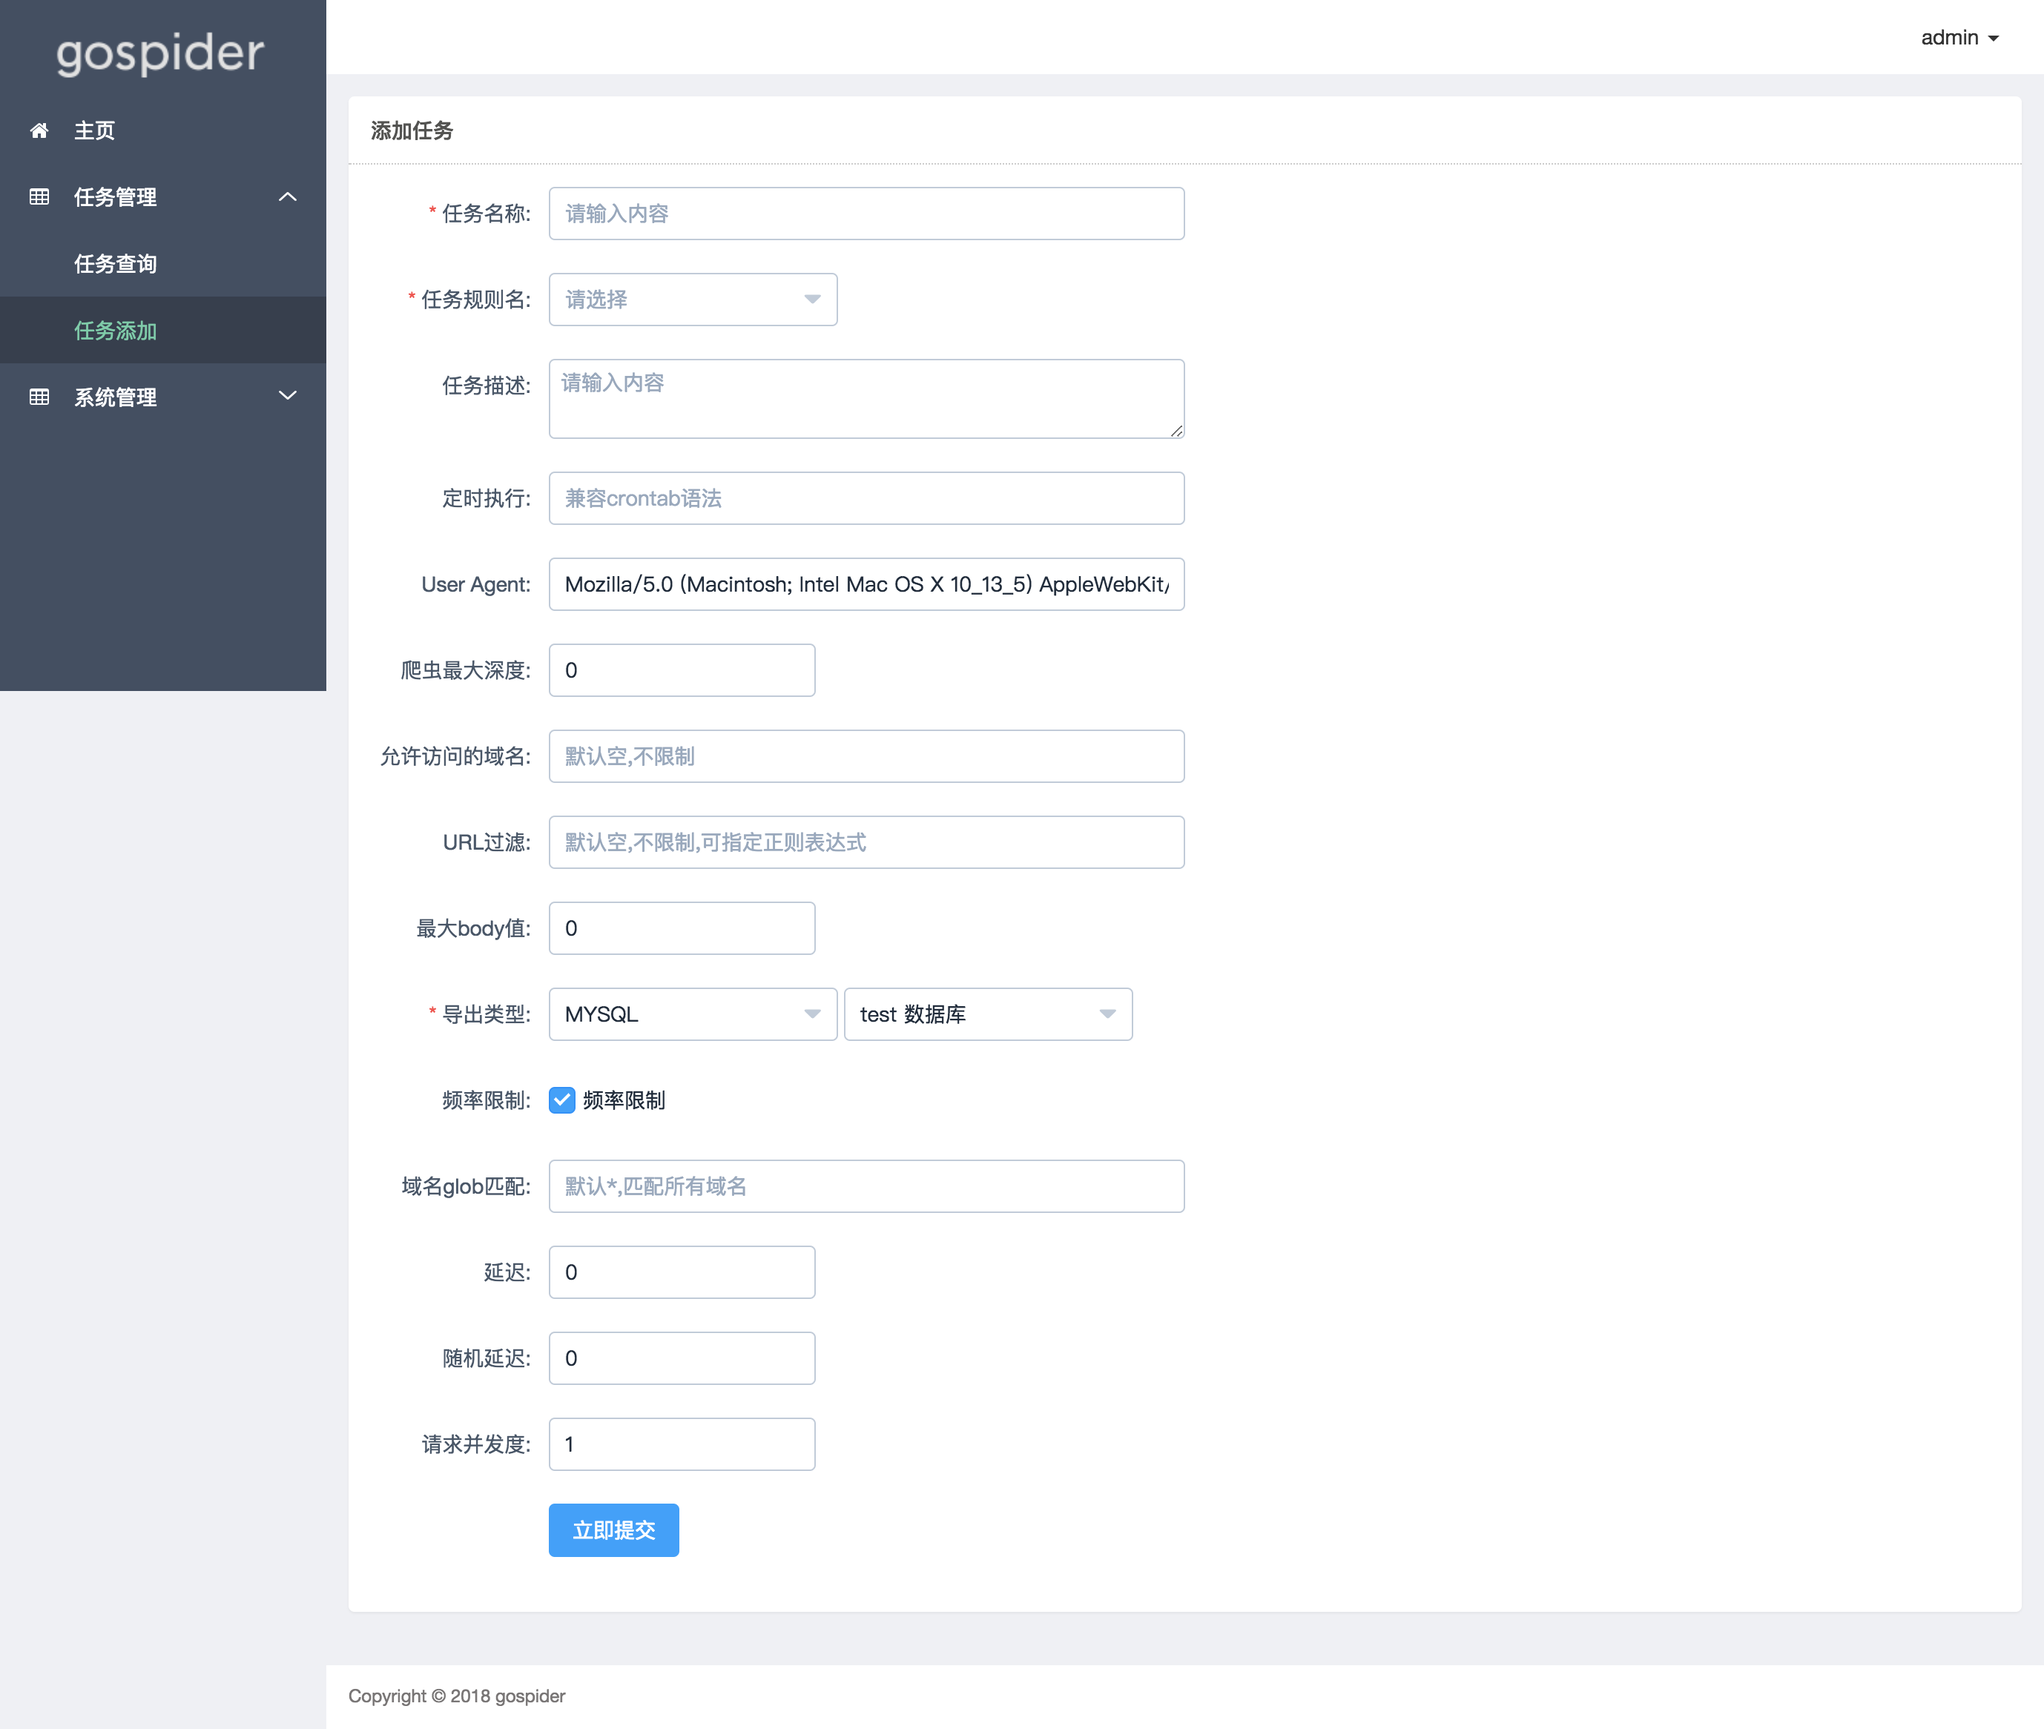
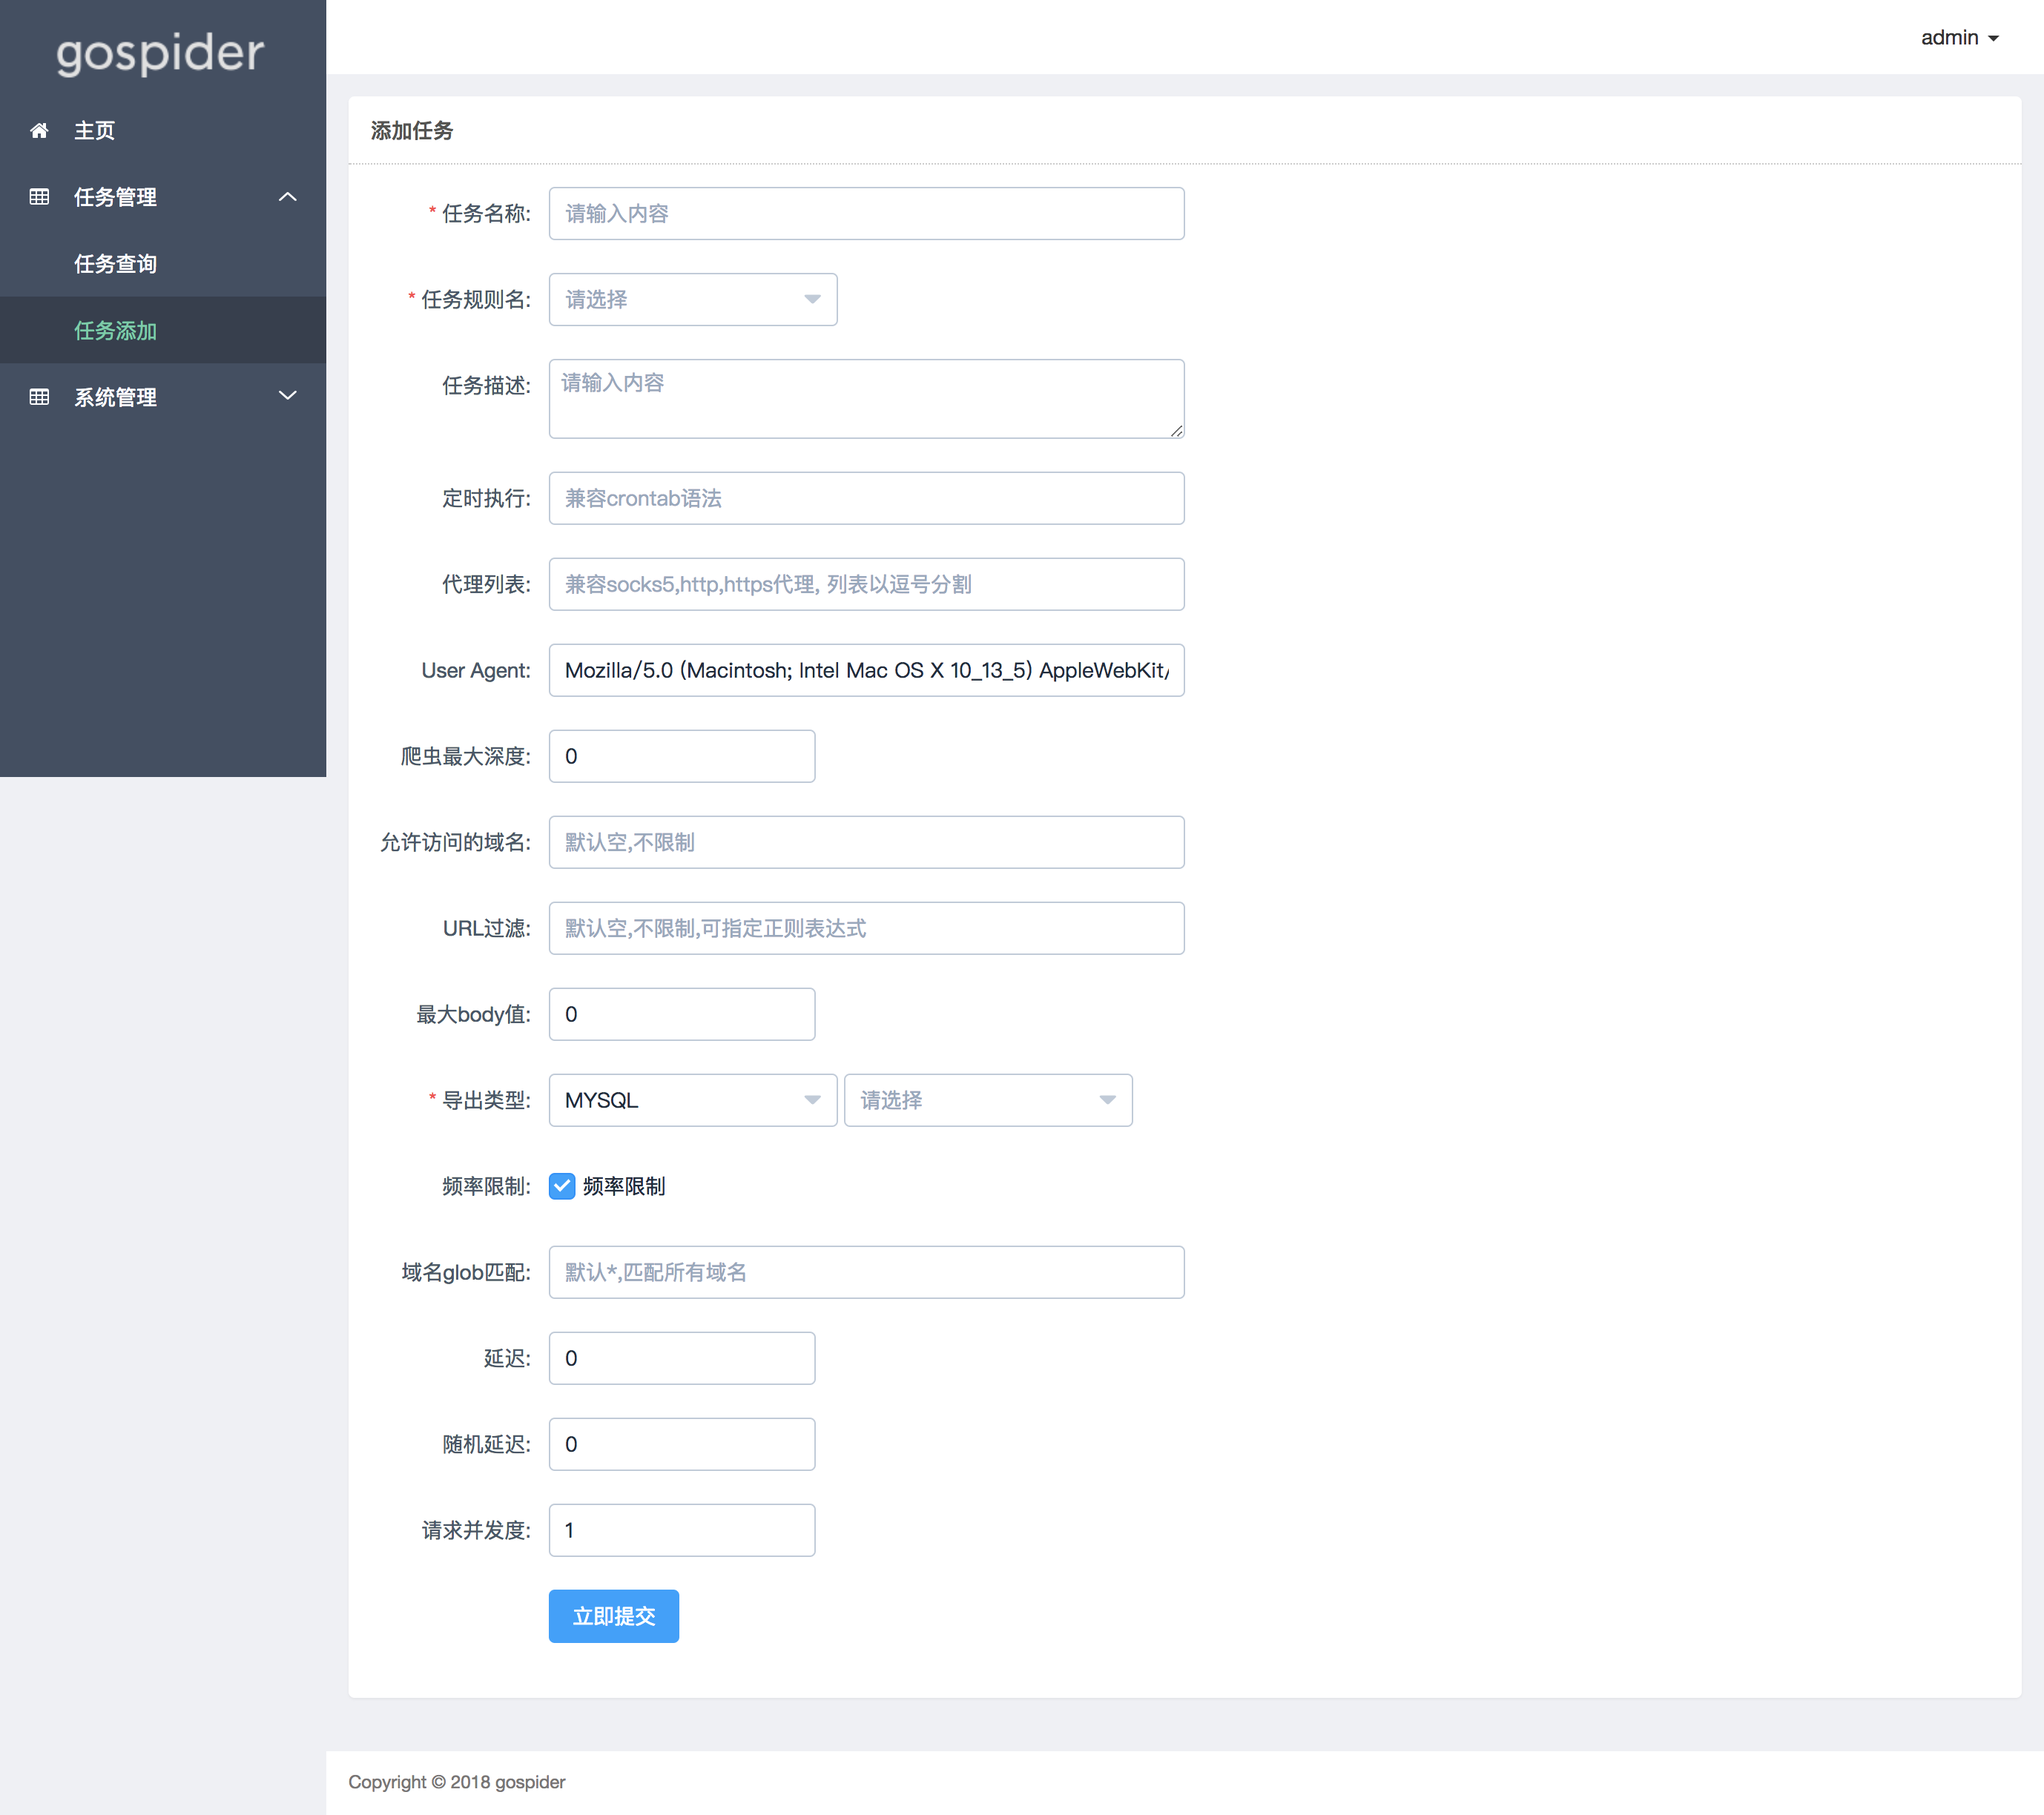
doc: update readme

diff --git a/README.md b/README.md
@@ -18,7 +18,7 @@ Alpha, 核心功能可用(任务创建、任务列表), 但功能还不完善。
 * 自动cookie和session处理
 * 支持各种导出类型(mysql,csv等)
 * 支持定时任务(兼容crontab格式)
-* 支持任务级别的可配置代理IP池(comming soon)
+* 支持任务级别的可配置代理IP池
 * Robots.txt 支持
 
 ## 依赖
@@ -123,4 +123,4 @@ var rule = &spider.TaskRule{
 ## 感谢
 * [colly](https://github.com/gocolly/colly)
 * [gin](https://github.com/gin-gonic/gin)
-
+* [gorm](https://github.com/jinzhu/gorm)
